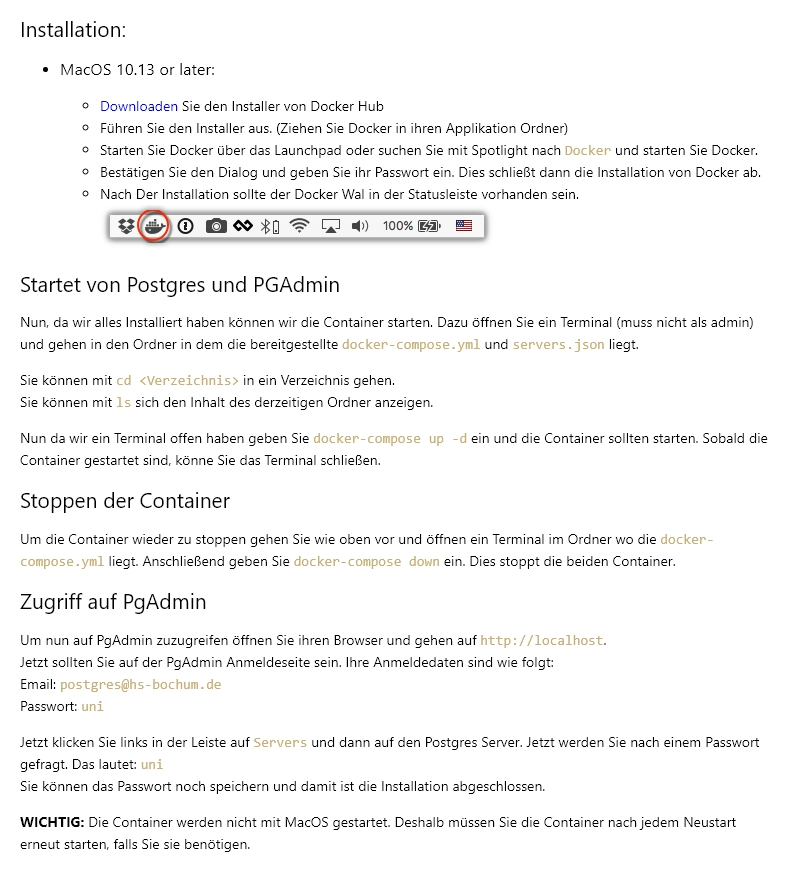
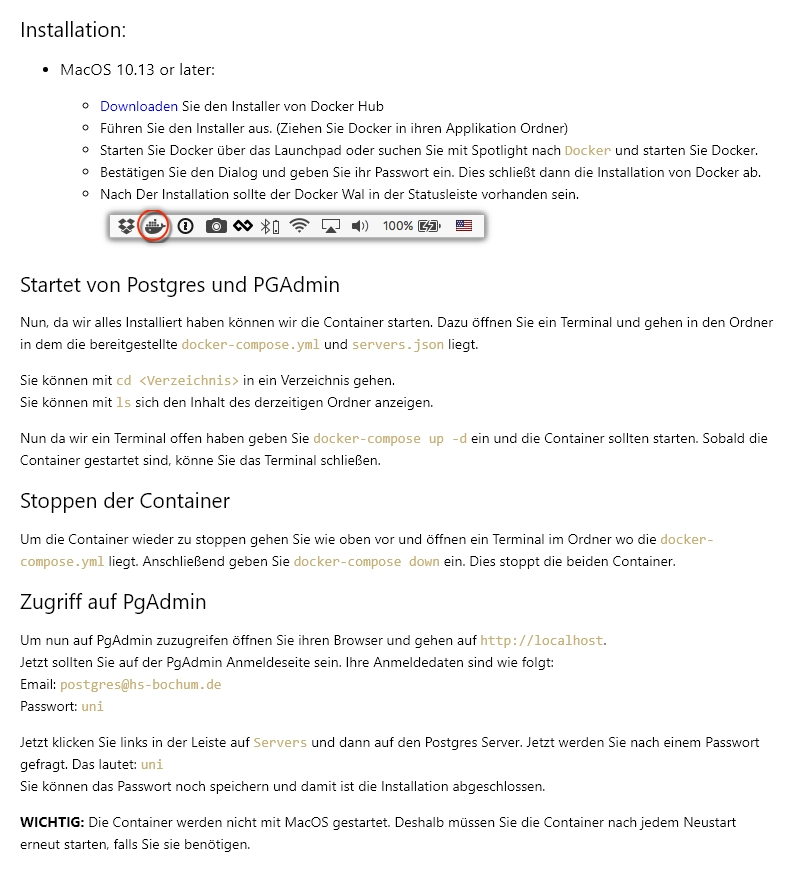
MacOsManual: Removed terminal as admin part

diff --git a/ManualMacOs.html b/ManualMacOs.html
@@ -381,7 +381,7 @@ code {
 </ul>
 <h2 id="startet-von-postgres-und-pgadmin">Startet von Postgres und PGAdmin</h2>
 <p>Nun, da wir alles Installiert haben können wir die Container starten.
-Dazu öffnen Sie ein Terminal (muss nicht als admin) und gehen in den Ordner in dem die bereitgestellte <code>docker-compose.yml</code> und <code>servers.json</code> liegt.</p>
+Dazu öffnen Sie ein Terminal und gehen in den Ordner in dem die bereitgestellte <code>docker-compose.yml</code> und <code>servers.json</code> liegt.</p>
 <p>Sie können mit <code>cd &lt;Verzeichnis&gt;</code> in ein Verzeichnis gehen.<br>
 Sie können mit <code>ls</code> sich den Inhalt des derzeitigen Ordner anzeigen.</p>
 <p>Nun da wir ein Terminal offen haben geben Sie <code>docker-compose up -d</code> ein und die Container sollten starten. Sobald die Container gestartet sind, könne Sie das Terminal schließen.</p>

diff --git a/ManualMacOs.md b/ManualMacOs.md
@@ -9,7 +9,7 @@
 
 ## Startet von Postgres und PGAdmin
 Nun, da wir alles Installiert haben können wir die Container starten.
-Dazu öffnen Sie ein Terminal (muss nicht als admin) und gehen in den Ordner in dem die bereitgestellte ``docker-compose.yml`` und ``servers.json`` liegt.
+Dazu öffnen Sie ein Terminal und gehen in den Ordner in dem die bereitgestellte ``docker-compose.yml`` und ``servers.json`` liegt.
 
 Sie können mit ``cd <Verzeichnis>`` in ein Verzeichnis gehen.  
 Sie können mit ``ls`` sich den Inhalt des derzeitigen Ordner anzeigen.
